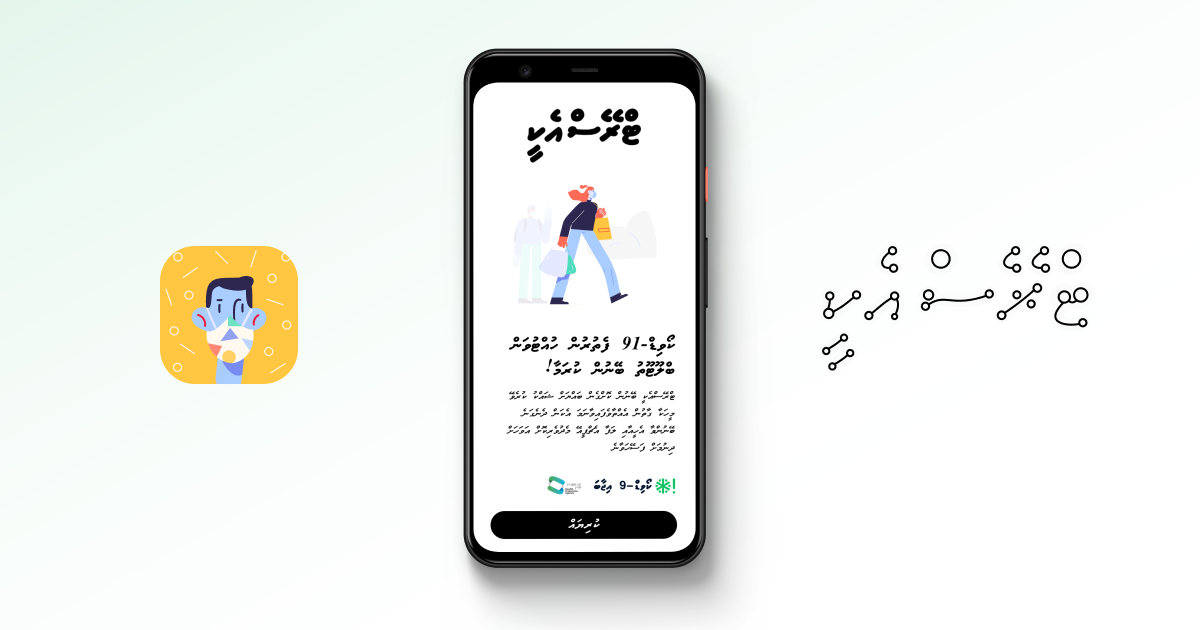
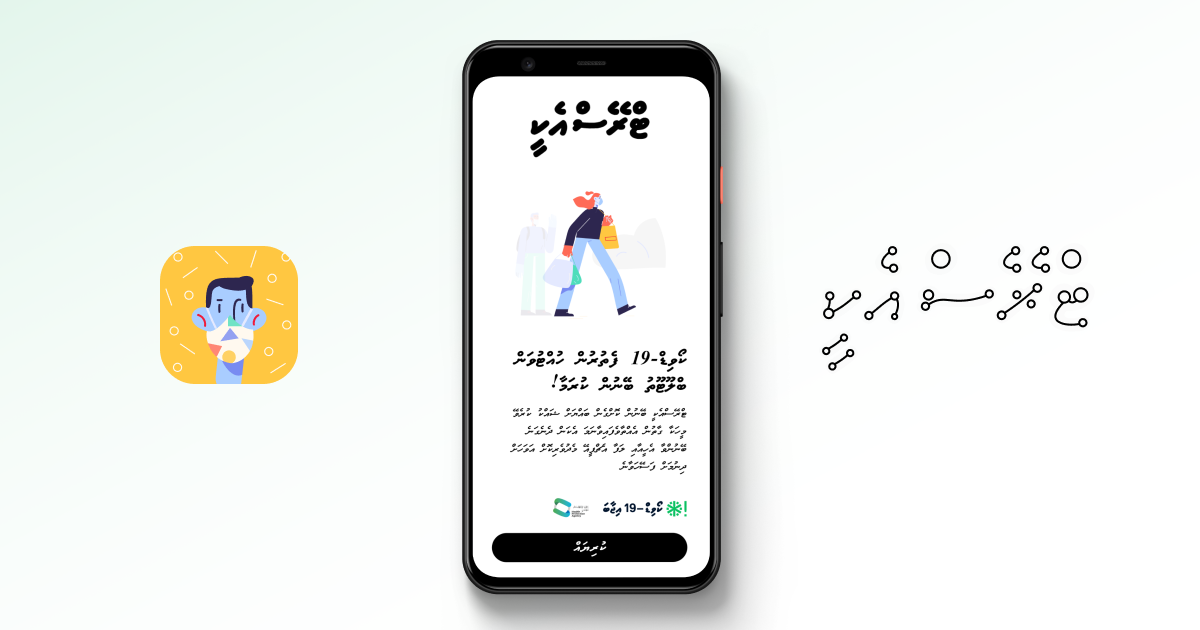
Opengraph image changes

Changed region(s): [[0.37, 0.0603, 0.6167, 1.0]]

diff --git a/index.html b/index.html
@@ -9,9 +9,9 @@
 	<meta name="description" content="TraceEkee supports the efforts to mitigate community spread of covid-19 in the Maldives through community-driven detailed contact tracing.">
     <meta property="og:title" content="TraceEkee - Maldives community-driven contact tracing." />
 <meta property="og:description" content="TraceEkee supports the efforts to mitigate community spread of covid-19 in the Maldives through community-driven detailed contact tracing." />
-<meta property="og:url" content="https://trace.health.gov.mv" />
+<meta property="og:url" content="https://trace.hpa.gov.mv" />
 <meta property="og:image:type" content="image/png" />
-<meta property="og:image" content="/assets/images/featured_image.png" />
+<meta property="og:image" content="https://trace.hpa.gov.mv/assets/images/featured_image.png" />
 
 <link rel="icon" type="image/png" sizes="32x32" href="/assets/favicon/favicon-32x32.png">
 <link rel="icon" type="image/png" sizes="96x96" href="/assets/favicon/favicon-96x96.png">
@@ -51,12 +51,18 @@
 						<div class="my-4 te_regular">It uses Bluetooth signals to detect encounters with other TraceEkee users and stores that data in encrypted form on your phone. If you had a close contact with a COVID-19 case, the Health Protection Agency will seek and need your actioned consent to upload your encounter data for contact tracing analysis. </div>
 
 					<div class="buttons -mx-2 py-6">
-						<a href="#" class="inline-block mx-2">
+						<div class="text-center inline-block text-sm">
+						<a href="https://play.google.com/store/apps/details?id=mv.gov.mohiru" target="_blank" class="block mx-2">
 							<img src="/assets/playstore.svg" class="h-10">
 						</a>
-						<a href="#" class="inline-block mx-2">
+						<span class="block mt-1">&nbsp;</span>
+						</div>
+						<div class="text-center inline-block opacity-25  text-sm">
+						<a href="#" class="block mx-2">
 							<img src="/assets/appstore.svg" class="h-10">
 						</a>
+						<span class="block mt-1">Coming Soon</span>
+						</div>
 					</div>
 					
 					</div>
